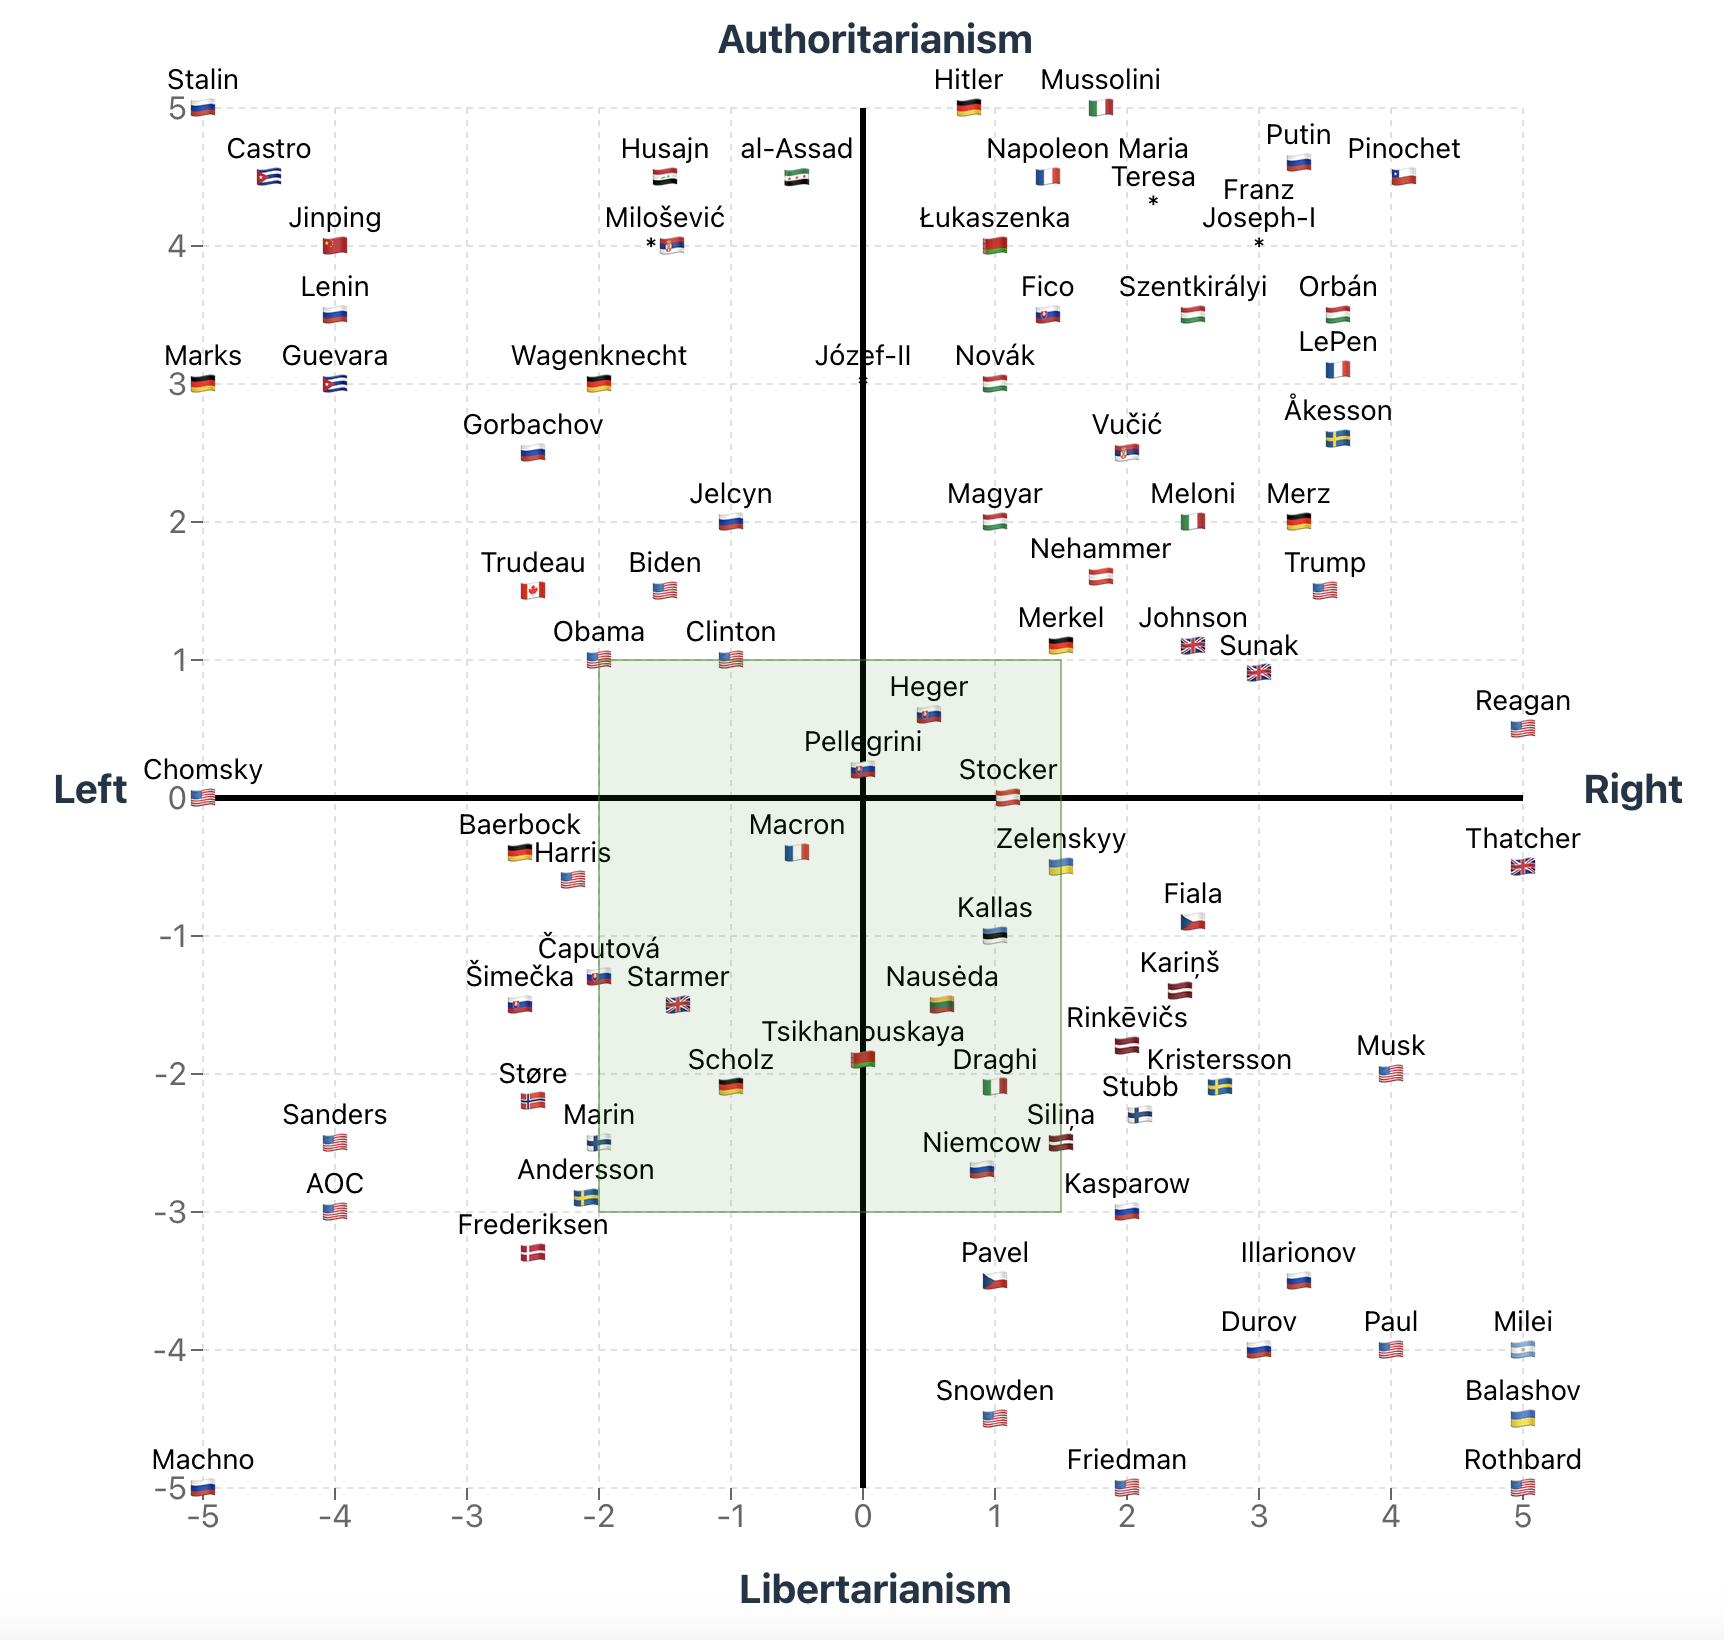
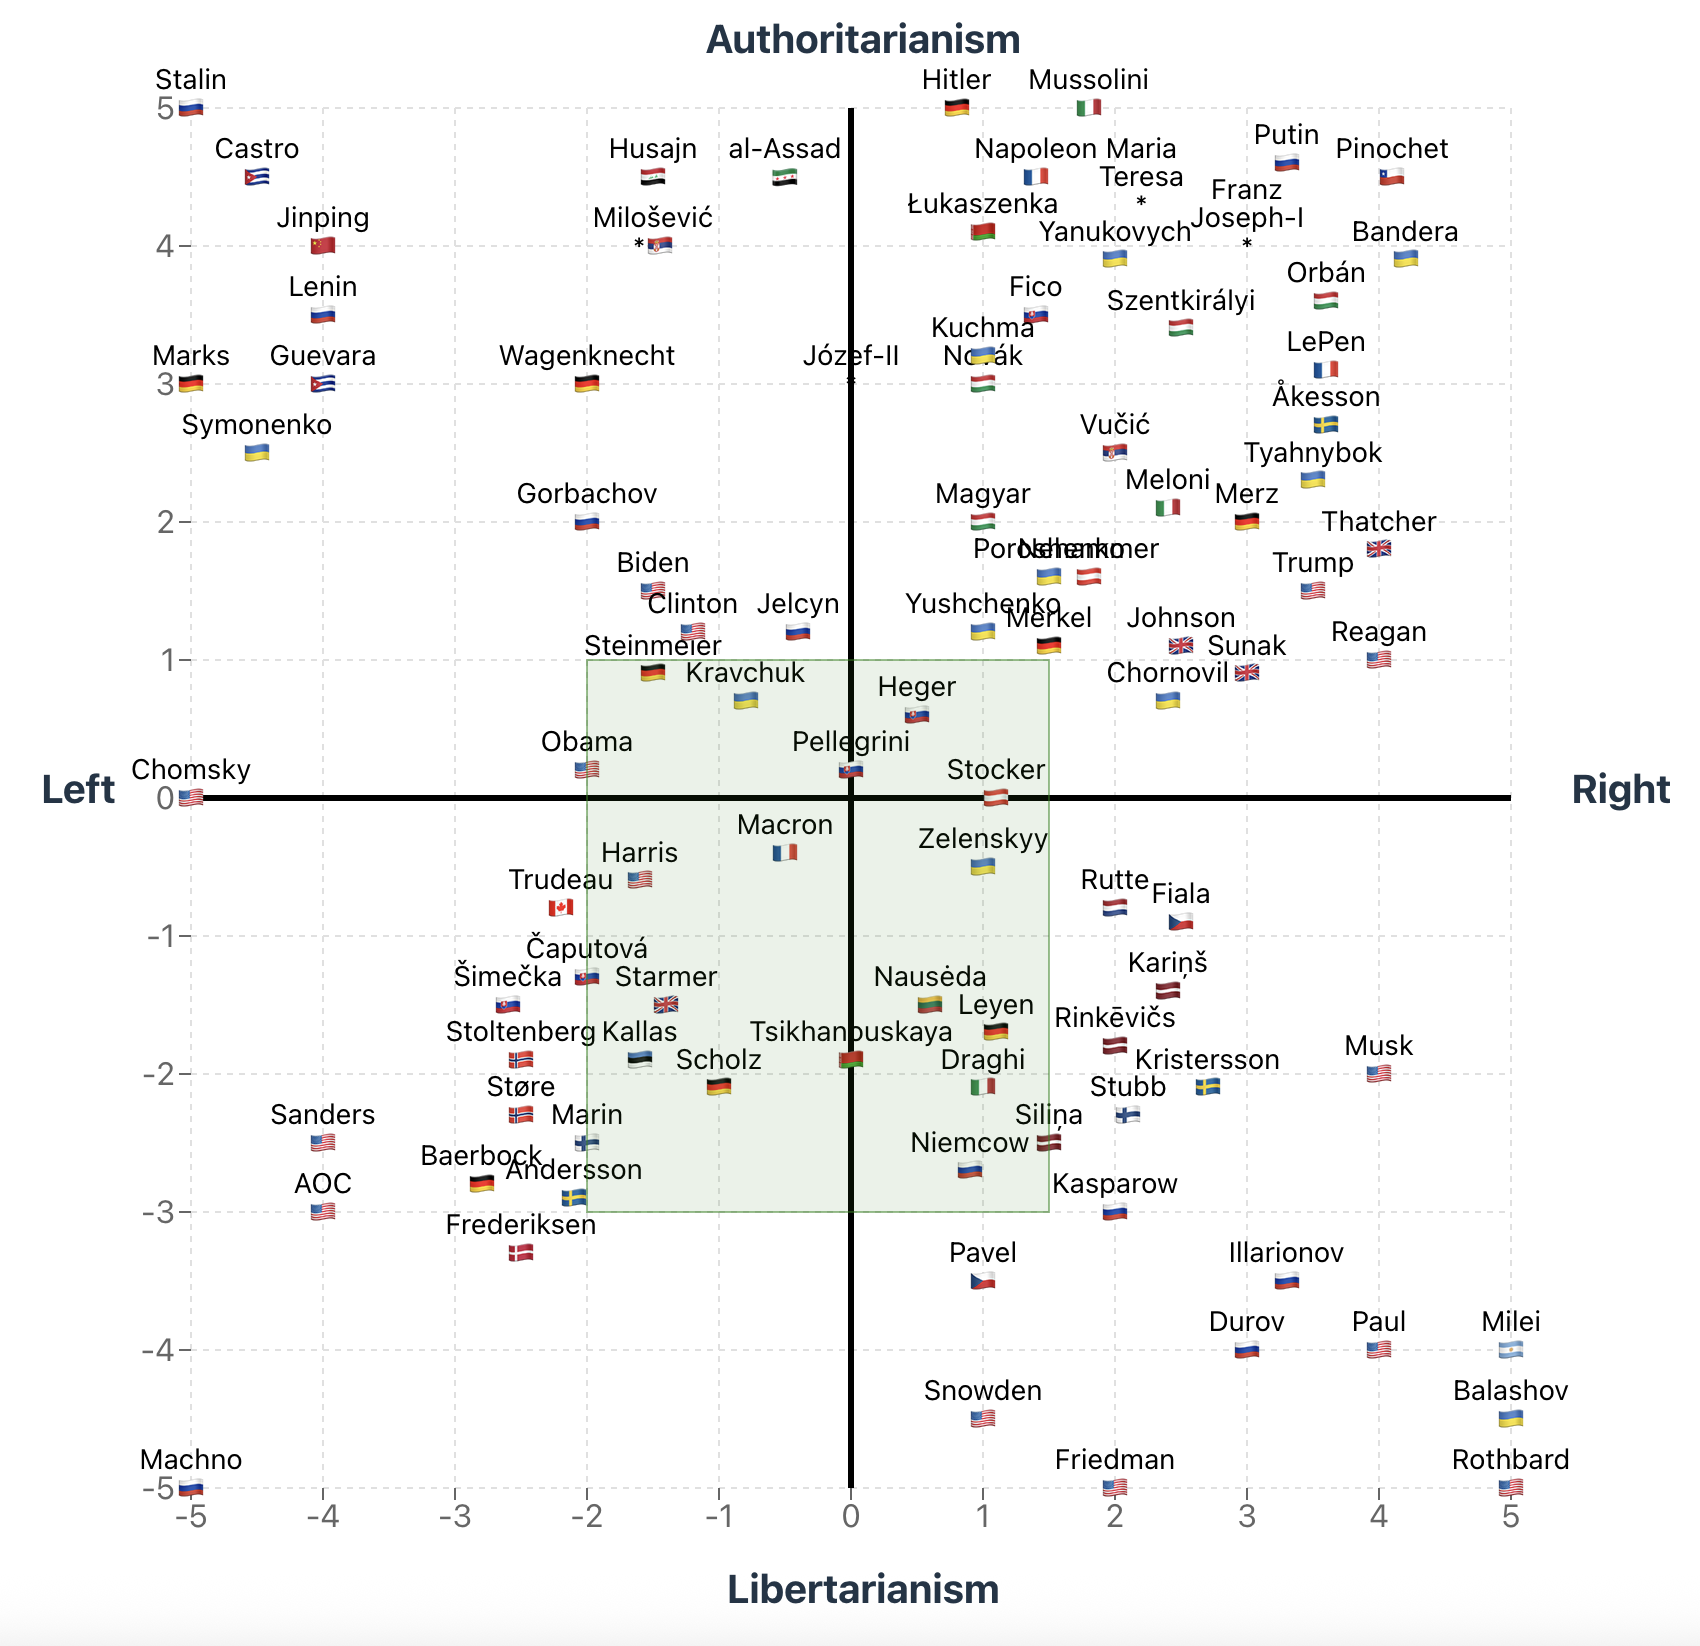
More data added

diff --git a/src/common/helpers.ts b/src/common/helpers.ts
@@ -1,26 +1,29 @@
 import { CSSProperties } from "react";
 import { SymbolType } from "recharts/types/util/types";
 
-import poland2025Raw from "../data/poland2025.json";
-import polandOtherRaw from "../data/polandOther.json";
+import poland2025Json from "../data/poland2025.json";
+import polandOtherJson from "../data/polandOther.json";
 import world from "../data/world.json";
 import america from "../data/america.json";
 import uk from "../data/uk.json";
 import scandinavia from "../data/scandinavia.json";
 import baltics from "../data/baltics.json";
 import europe from "../data/europe.json";
-import ukraine from "../data/ukraine.json";
+import ukraineJson from "../data/ukraine.json";
 import russia from "../data/russia.json";
 
 import { CompassData, DataKind, Person } from "./models";
 
-const setFlag = (item: Person) => ({
-  ...item,
-  flag: "🇵🇱",
-});
+const setFlag = (flag: string) => {
+  return (item: Person) => ({
+    ...item,
+    flag,
+  });
+};
 
-const poland2025 = poland2025Raw.map(setFlag);
-const polandOther = polandOtherRaw.map(setFlag);
+const poland2025 = poland2025Json.map(setFlag("🇵🇱"));
+const polandOther = polandOtherJson.map(setFlag("🇵🇱"));
+const ukraine = ukraineJson.map(setFlag("🇺🇦"));
 
 export const mainData: CompassData = {
   poland2025,

diff --git a/README.md b/README.md
@@ -13,6 +13,8 @@ Green rectangle is "my political views" area. Other dots represent political peo
 
 ![v2-other-1](./images/v2-other-1.png)
 ![v2-other-2](./images/v2-other-2.png)
+![v2-other-3](./images/v2-other-3.png)
+
 ![v2-other-all](./images/v2-other-all.png)
 
 And [here](https://alundiak.github.io/polityczny-kompas/politica.html) is previous, my initial very basic version using basic HTML/SVG.
